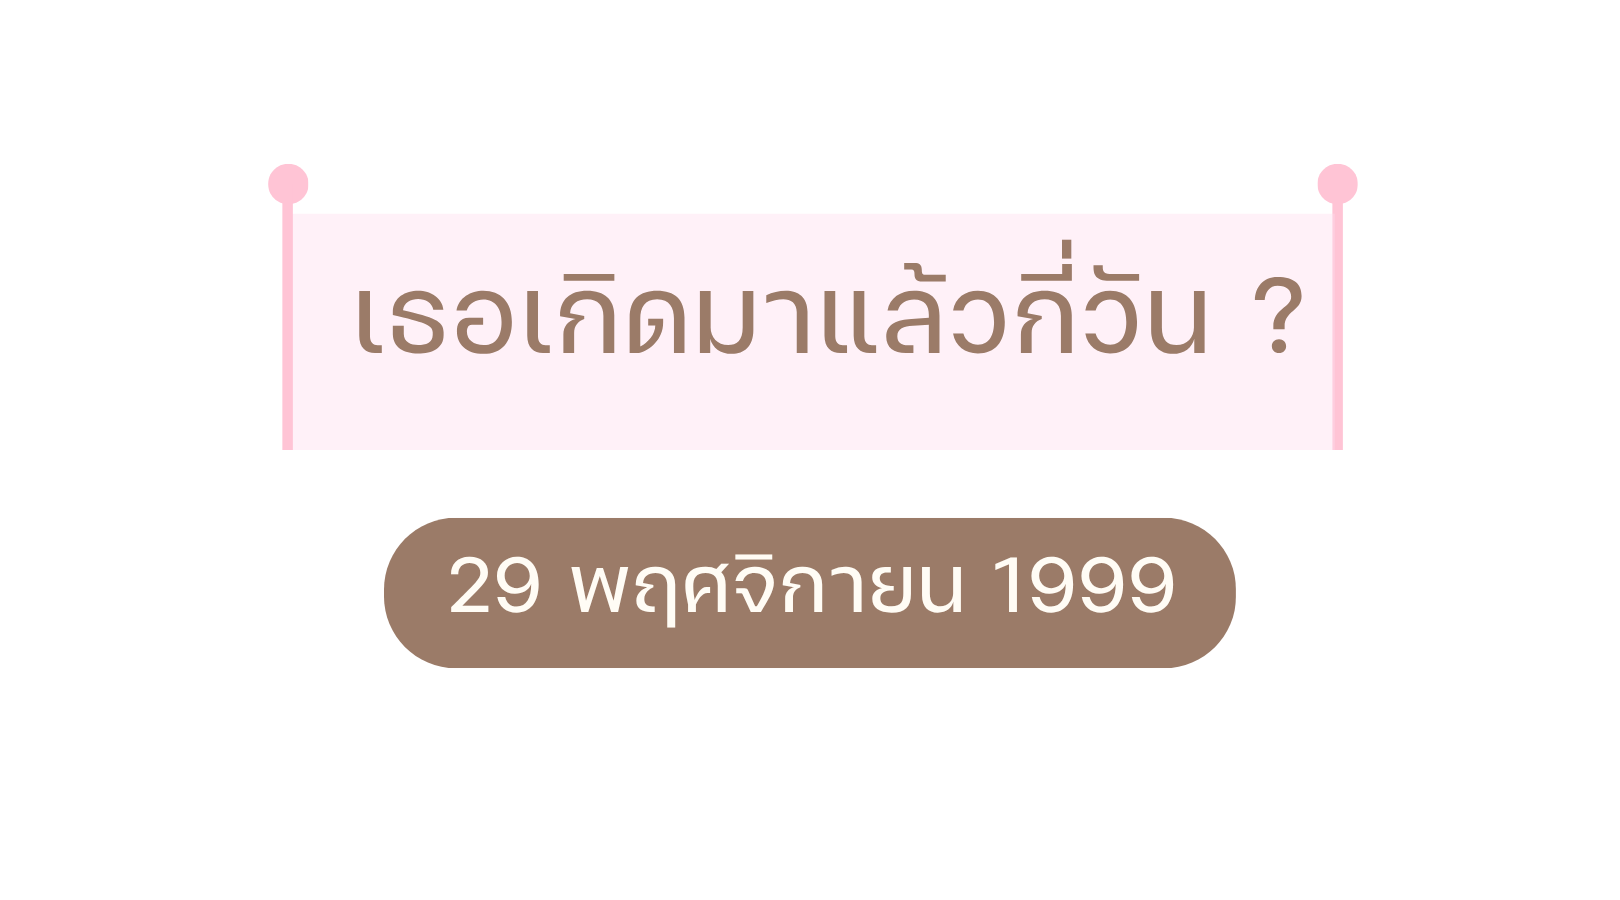
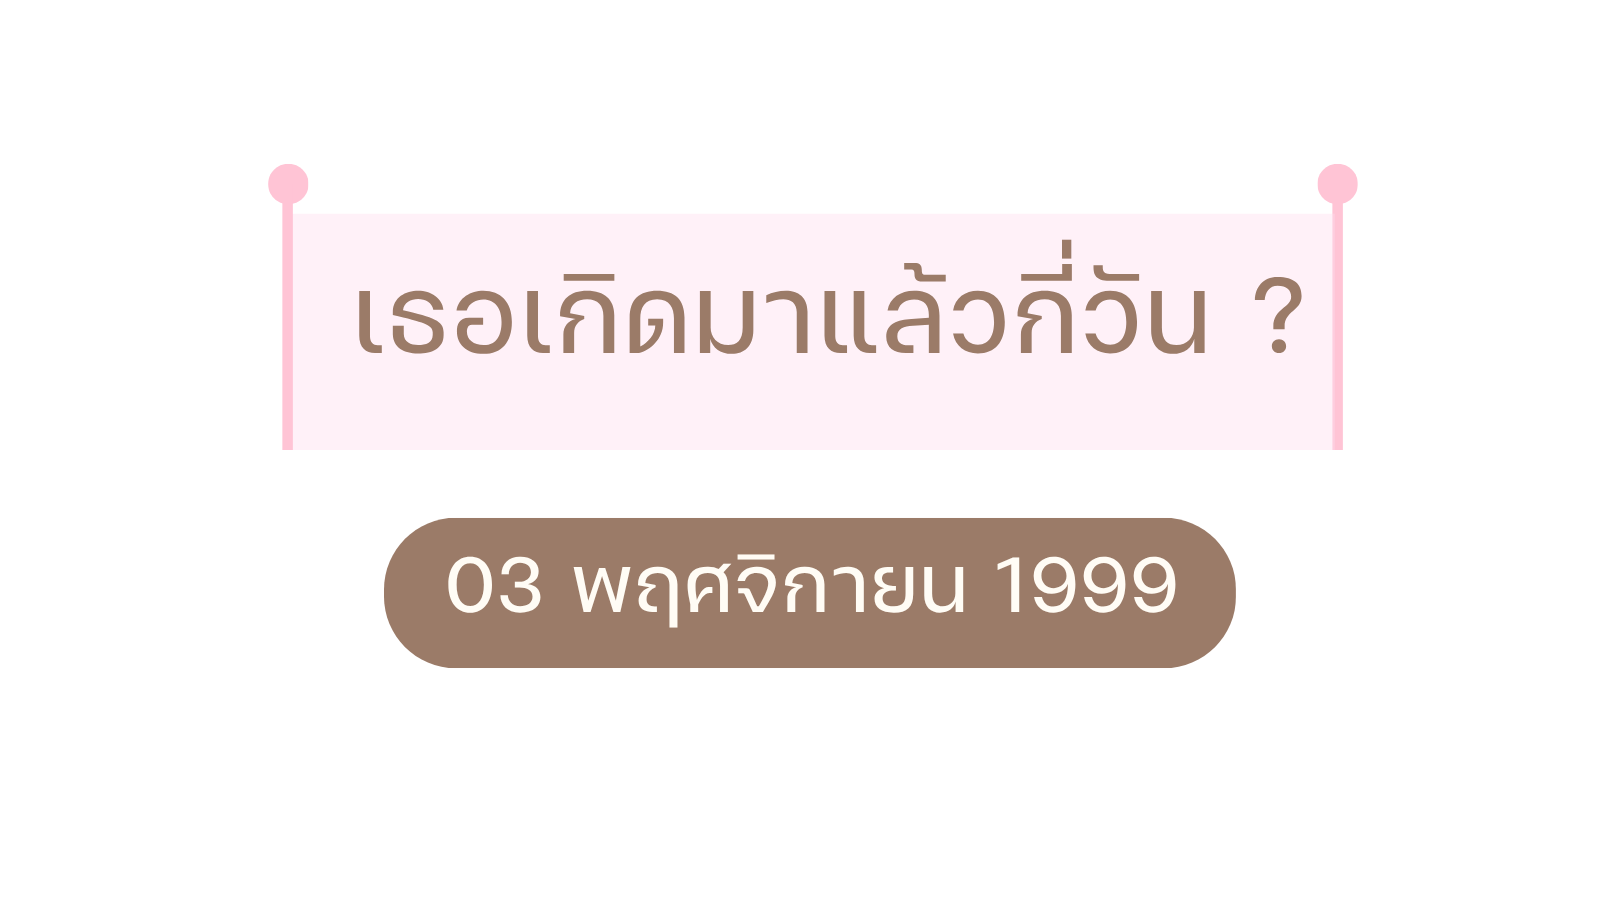
upload website

Changed region(s): [[0.2778, 0.6222, 0.7407, 0.6844]]

diff --git a/day.html b/day.html
@@ -1230,7 +1230,7 @@
 
     const birthDate =
       new Date(
-        "1999-11-29T00:00:00"
+        "1999-11-03T00:00:00"
       );
 
 
